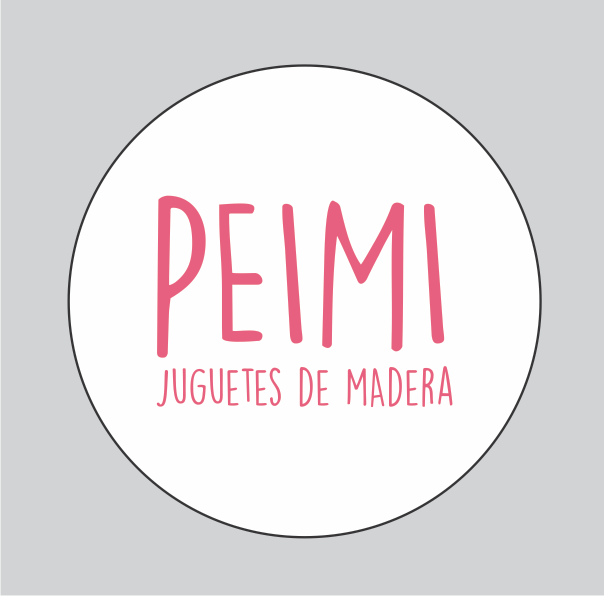
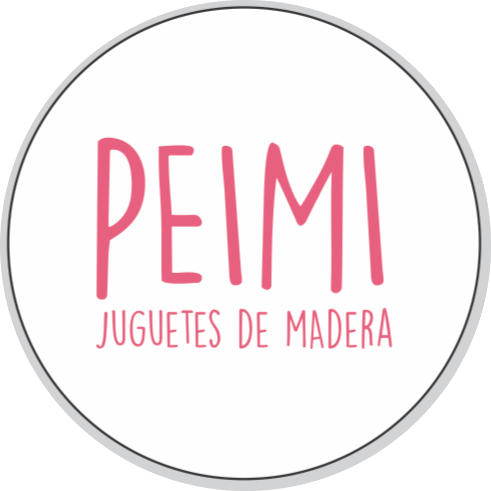
Add imagenes a galeria

diff --git a/galeria.html b/galeria.html
@@ -4,7 +4,7 @@
     <meta charset="utf-8">
     <meta name="viewport" content="width=device-width, initial-scale=1">
     <link href="https://cdn.jsdelivr.net/npm/bootstrap@5.2.1/dist/css/bootstrap.min.css" rel="stylesheet" integrity="sha384-iYQeCzEYFbKjA/T2uDLTpkwGzCiq6soy8tYaI1GyVh/UjpbCx/TYkiZhlZB6+fzT" crossorigin="anonymous">
-    <link rel="shortcut icon" href="/imagenes/confetti.png">
+    <link rel="shortcut icon" href="./imagenes/Boceto Peimi stickers.png">
     <link rel="preconnect" href="https://fonts.googleapis.com">
     <link rel="preconnect" href="https://fonts.gstatic.com" crossorigin>
     <link href="https://fonts.googleapis.com/css2?family=Roboto:ital,wght@0,100;0,300;0,400;0,500;0,700;1,100;1,300;1,400;1,500&display=swap" rel="stylesheet">
@@ -18,7 +18,7 @@
         <nav class="navbar navbar-expand-lg">
             <!--Logo-->
             <div class="container">
-                <a class="navbar-brand" href="#">PEIMI</a>
+                <img src="./imagenes/Boceto Peimi stickers.png" alt="logo" class="navbar-brand">
                 <!--Menu Collapse Responsive-->
                 <button class="navbar-toggler" type="button" data-bs-toggle="collapse" data-bs-target="#navbarSupportedContent" aria-controls="navbarSupportedContent" aria-expanded="true" aria-label="Toggle navigation">
                 <span class="navbar-toggler-icon"></span>
@@ -56,15 +56,79 @@
         </nav>
   </header>
   <main>
-      <div class="container text-center">
-        <div class="row row-cols-2">
-          <div class="col">Column</div>
-          <div class="col">Column</div>
-          <div class="col">Column</div>
-          <div class="col">Column</div>
-          <div class="col">Column</div>
-          <div class="col">Column</div>
+    <div class="row row-cols-1 row-cols-md-2 g-4 mt-0 p-3">
+        <div class="col">
+          <div class="card">
+            <img src="./imagenes/balancin.jpeg" class="card-img-top" alt="balancin">
+            <div class="card-body">
+              <h5 class="card-title">Balancin</h5>
+              <p class="card-text">Lorem ipsum dolor sit amet consectetur adipisicing elit. Cum aliquam recusandae sint autem, repudiandae tempore explicabo soluta, laborum quasi voluptatem magni saepe sunt architecto deserunt natus ullam? Velit, alias esse!.</p>
+            </div>
+          </div>
         </div>
+        <div class="col">
+          <div class="card">
+            <img src="./imagenes/bibilioteca.jpeg" class="card-img-top" alt="bibilioteca">
+            <div class="card-body">
+              <h5 class="card-title">Biblioteca</h5>
+              <p class="card-text">Lorem ipsum dolor sit amet consectetur adipisicing elit. Cum aliquam recusandae sint autem, repudiandae tempore explicabo soluta, laborum quasi voluptatem magni saepe sunt architecto deserunt natus ullam? Velit, alias esse!.</p>
+            </div>
+          </div>
+        </div>
+        <div class="col">
+          <div class="card">
+            <img src="./imagenes/cubo pikler.jpeg" class="card-img-top" alt="cubo">
+            <div class="card-body">
+              <h5 class="card-title">Cubo Pickler</h5>
+              <p class="card-text">Lorem ipsum dolor sit amet consectetur adipisicing elit. Cum aliquam recusandae sint autem, repudiandae tempore explicabo soluta, laborum quasi voluptatem magni saepe sunt architecto deserunt natus ullam? Velit, alias esse!.</p>
+            </div>
+          </div>
+        </div>
+        <div class="col">
+          <div class="card">
+            <img src="./imagenes/pizarron.jpeg" class="card-img-top" alt="pizarron">
+            <div class="card-body">
+              <h5 class="card-title">Pizarron</h5>
+              <p class="card-text">Lorem ipsum dolor sit amet consectetur adipisicing elit. Cum aliquam recusandae sint autem, repudiandae tempore explicabo soluta, laborum quasi voluptatem magni saepe sunt architecto deserunt natus ullam? Velit, alias esse!.</p>
+            </div>
+          </div>
+        </div>
+        <div class="col">
+            <div class="card">
+              <img src="./imagenes/mesa.jpeg" class="card-img-top" alt="mesa">
+              <div class="card-body">
+                <h5 class="card-title">Balancin</h5>
+                <p class="card-text">Lorem ipsum dolor sit amet consectetur adipisicing elit. Cum aliquam recusandae sint autem, repudiandae tempore explicabo soluta, laborum quasi voluptatem magni saepe sunt architecto deserunt natus ullam? Velit, alias esse!.</p>
+              </div>
+            </div>
+          </div>
+          <div class="col">
+            <div class="card">
+              <img src="./imagenes/cocinita.jpeg" class="card-img-top" alt="cocinita">
+              <div class="card-body">
+                <h5 class="card-title">Biblioteca</h5>
+                <p class="card-text">Lorem ipsum dolor sit amet consectetur adipisicing elit. Cum aliquam recusandae sint autem, repudiandae tempore explicabo soluta, laborum quasi voluptatem magni saepe sunt architecto deserunt natus ullam? Velit, alias esse!.</p>
+              </div>
+            </div>
+          </div>
+          <div class="col">
+            <div class="card">
+              <img src="./imagenes/carro.jpeg" class="card-img-top" alt="carro">
+              <div class="card-body">
+                <h5 class="card-title">Cubo Pickler</h5>
+                <p class="card-text">Lorem ipsum dolor sit amet consectetur adipisicing elit. Cum aliquam recusandae sint autem, repudiandae tempore explicabo soluta, laborum quasi voluptatem magni saepe sunt architecto deserunt natus ullam? Velit, alias esse!.</p>
+              </div>
+            </div>
+          </div>
+          <div class="col">
+            <div class="card">
+              <img src="./imagenes/silla.jpeg" class="card-img-top" alt="silla">
+              <div class="card-body">
+                <h5 class="card-title">Pizarron</h5>
+                <p class="card-text">Lorem ipsum dolor sit amet consectetur adipisicing elit. Cum aliquam recusandae sint autem, repudiandae tempore explicabo soluta, laborum quasi voluptatem magni saepe sunt architecto deserunt natus ullam? Velit, alias esse!.</p>
+              </div>
+            </div>
+          </div>
       </div>
   </main>
   <footer class="container-fluid py-5">

diff --git a/index.html b/index.html
@@ -4,7 +4,7 @@
     <meta charset="utf-8">
     <meta name="viewport" content="width=device-width, initial-scale=1">
     <link href="https://cdn.jsdelivr.net/npm/bootstrap@5.2.1/dist/css/bootstrap.min.css" rel="stylesheet" integrity="sha384-iYQeCzEYFbKjA/T2uDLTpkwGzCiq6soy8tYaI1GyVh/UjpbCx/TYkiZhlZB6+fzT" crossorigin="anonymous">
-    <link rel="shortcut icon" href="/imagenes/confetti.png">
+    <link rel="shortcut icon" href="./imagenes/Boceto Peimi stickers.png">
     <link rel="preconnect" href="https://fonts.googleapis.com">
     <link rel="preconnect" href="https://fonts.gstatic.com" crossorigin>
     <link href="https://fonts.googleapis.com/css2?family=Roboto:ital,wght@0,100;0,300;0,400;0,500;0,700;1,100;1,300;1,400;1,500&display=swap" rel="stylesheet">
@@ -17,7 +17,7 @@
         <nav class="navbar navbar-expand-lg">
           <!--Logo-->
           <div class="container">
-            <a class="navbar-brand" href="#">PEIMI</a>
+            <img src="./imagenes/Boceto Peimi stickers.png" alt="logo" class="navbar-brand">
             <!--Menu Collapse Responsive-->
             <button class="navbar-toggler" type="button" data-bs-toggle="collapse" data-bs-target="#navbarSupportedContent" aria-controls="navbarSupportedContent" aria-expanded="true" aria-label="Toggle navigation">
             <span class="navbar-toggler-icon"></span>

diff --git a/css/style.css b/css/style.css
@@ -9,6 +9,10 @@ html {
 .navbar {
    background-color:rgba(255, 209, 209, 0.774);
 }
+.navbar-brand {
+    width: 50px;
+    height: 60px;
+}
 .nav-item a, select {
    color: rgb(255, 148, 148);
    font-style: italic;
